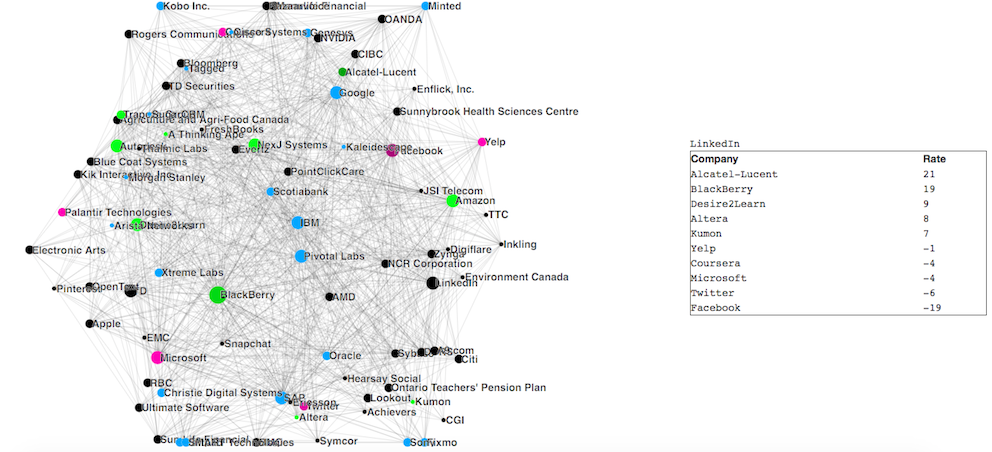
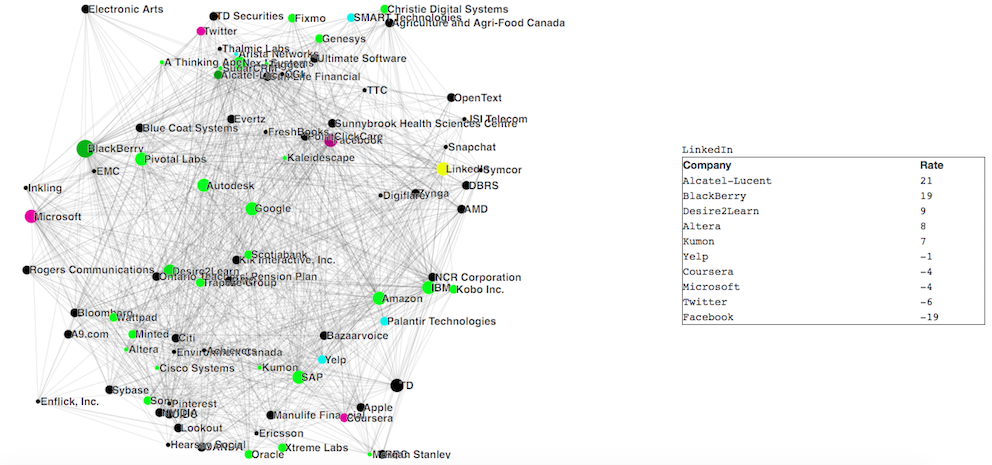
“changed7“

Changed region(s): [[0.0, 0.0, 0.5938, 0.9912], [0.6875, 0.3097, 1.0, 0.7124]]

diff --git a/static/internships.html b/static/internships.html
@@ -13,7 +13,7 @@ permalink: internships.html
                     <h2 class="section-heading">Company ranking at UW for Computer Sciences</h2>
                     <hr class="light">
                     <p>
-                        [Work in progress]
+                        [<a href="internships2.html" style="color:#ff5500;">Click here for the final chart</a>]
                         <br>
                         <ul>
                             <li>Data scraping: <a href="http://vlyubin.pythonanywhere.com/co-op" style="color:#ff5500;">work</a> done by Vlyubin using the LinkedIn API.</li>
@@ -67,22 +67,30 @@ permalink: internships.html
                     <p style="text-align: left;">
                     Next: D3! I used this <a href="http://bl.ocks.org/ccmcc/5182685" style="color:#ff5500;">tutorial</a> by CCMCC
                     to understand how the nodes and edges in a force layout should be generated using D3. Then, based on previous
-                    knowledge and help on Stack Overflow, I slowly built my project.
+                    knowledge and a lot of help from Stack Overflow, I slowly built my project.
                     </p>
                     <br>
                     <img src="../img/internship_s1.jpeg">
-                    <p style="text-align: left;">First draft in green!</p>
+                    <p style="text-align: left;">
+                    First draft in green! The nodes represent how many students worked at this company and the edges represent where else
+                    some of those students worked at.
+                    </p>
                     <img src="../img/internship_s2.jpeg">
-                    <p style="text-align: left;">I then realized the chart looks a lot better in black.</p>
+                    <p style="text-align: left;">
+                    I then realized the chart looks a lot better in black. I also modified the size of the nodes to something less sparse.
+                    </p>
                     <img src="../img/internship_s3.png">
                     <p style="text-align: left;">
-                    Added an interactive dashboard of the 5 companies who hired the most coop students from this company
-                    and the 5 companies who provided the largest number of interns to the company.
-                    </p>
+                    Added an interactive dashboard on the right of the 5 companies who hired the most coop students from this company
+                    (represented by positive rate) and the 5 companies who provided the largest number of interns to the company
+                    (represented by negative rate). If Google hired a student who worked at IBM two terms ago, the rate of IBM when
+                    clicked on Google will increase by 2.
+                    And to make it interesting, I added some colors to go with this dashboard. Here are how these colors are categorized.
+                    <script src="https://gist.github.com/yzhang0/e0f681adbfa41967147e7f965c9de4bc.js"></script>
                     <img src="../img/internship_s4.png">
-                    <p style="text-align: left;">And to make it interesting, I added a legend to go with this dashboard.</p>
+                    </p>
                     <br>
-                    <a href="internships2.html" style="color:#ff5500;">Click here</a> for draft 1.
+                    <a href="internships2.html" style="color:#ff5500;">Click here for the data visualization!</a>
                     </p>
                 </div>
             </div>

diff --git a/_site/internships.html b/_site/internships.html
@@ -77,7 +77,7 @@
                     <h2 class="section-heading">Company ranking at UW for Computer Sciences</h2>
                     <hr class="light">
                     <p>
-                        [Work in progress]
+                        [<a href="internships2.html" style="color:#ff5500;">Click here for the final chart</a>]
                         <br>
                         <ul>
                             <li>Data scraping: <a href="http://vlyubin.pythonanywhere.com/co-op" style="color:#ff5500;">work</a> done by Vlyubin using the LinkedIn API.</li>
@@ -131,22 +131,30 @@
                     <p style="text-align: left;">
                     Next: D3! I used this <a href="http://bl.ocks.org/ccmcc/5182685" style="color:#ff5500;">tutorial</a> by CCMCC
                     to understand how the nodes and edges in a force layout should be generated using D3. Then, based on previous
-                    knowledge and help on Stack Overflow, I slowly built my project.
+                    knowledge and a lot of help from Stack Overflow, I slowly built my project.
                     </p>
                     <br>
                     <img src="../img/internship_s1.jpeg">
-                    <p style="text-align: left;">First draft in green!</p>
+                    <p style="text-align: left;">
+                    First draft in green! The nodes represent how many students worked at this company and the edges represent where else
+                    some of those students worked at.
+                    </p>
                     <img src="../img/internship_s2.jpeg">
-                    <p style="text-align: left;">I then realized the chart looks a lot better in black.</p>
+                    <p style="text-align: left;">
+                    I then realized the chart looks a lot better in black. I also modified the size of the nodes to something less sparse.
+                    </p>
                     <img src="../img/internship_s3.png">
                     <p style="text-align: left;">
-                    Added an interactive dashboard of the 5 companies who hired the most coop students from this company
-                    and the 5 companies who provided the largest number of interns to the company.
-                    </p>
+                    Added an interactive dashboard on the right of the 5 companies who hired the most coop students from this company
+                    (represented by positive rate) and the 5 companies who provided the largest number of interns to the company
+                    (represented by negative rate). If Google hired a student who worked at IBM two terms ago, the rate of IBM when
+                    clicked on Google will increase by 2.
+                    And to make it interesting, I added some colors to go with this dashboard. Here are how these colors are categorized.
+                    <script src="https://gist.github.com/yzhang0/e0f681adbfa41967147e7f965c9de4bc.js"></script>
                     <img src="../img/internship_s4.png">
-                    <p style="text-align: left;">And to make it interesting, I added a legend to go with this dashboard.</p>
+                    </p>
                     <br>
-                    <a href="internships2.html" style="color:#ff5500;">Click here</a> for draft 1.
+                    <a href="internships2.html" style="color:#ff5500;">Click here for the data visualization!</a>
                     </p>
                 </div>
             </div>
